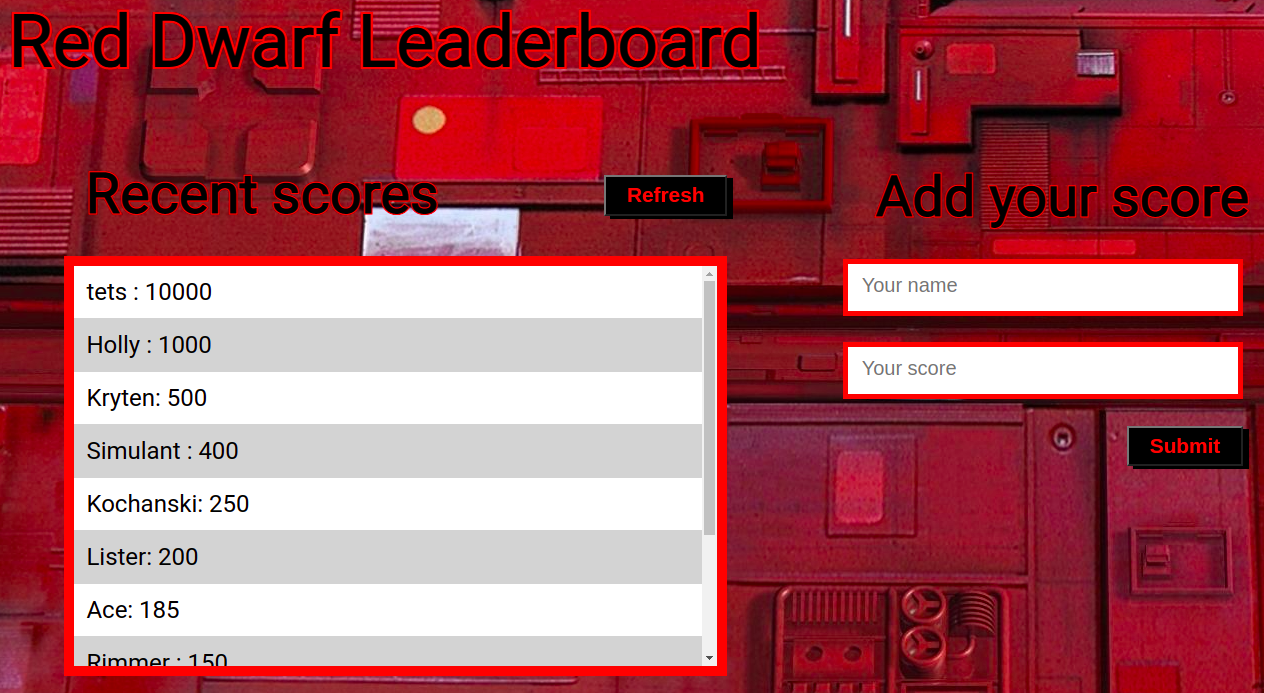
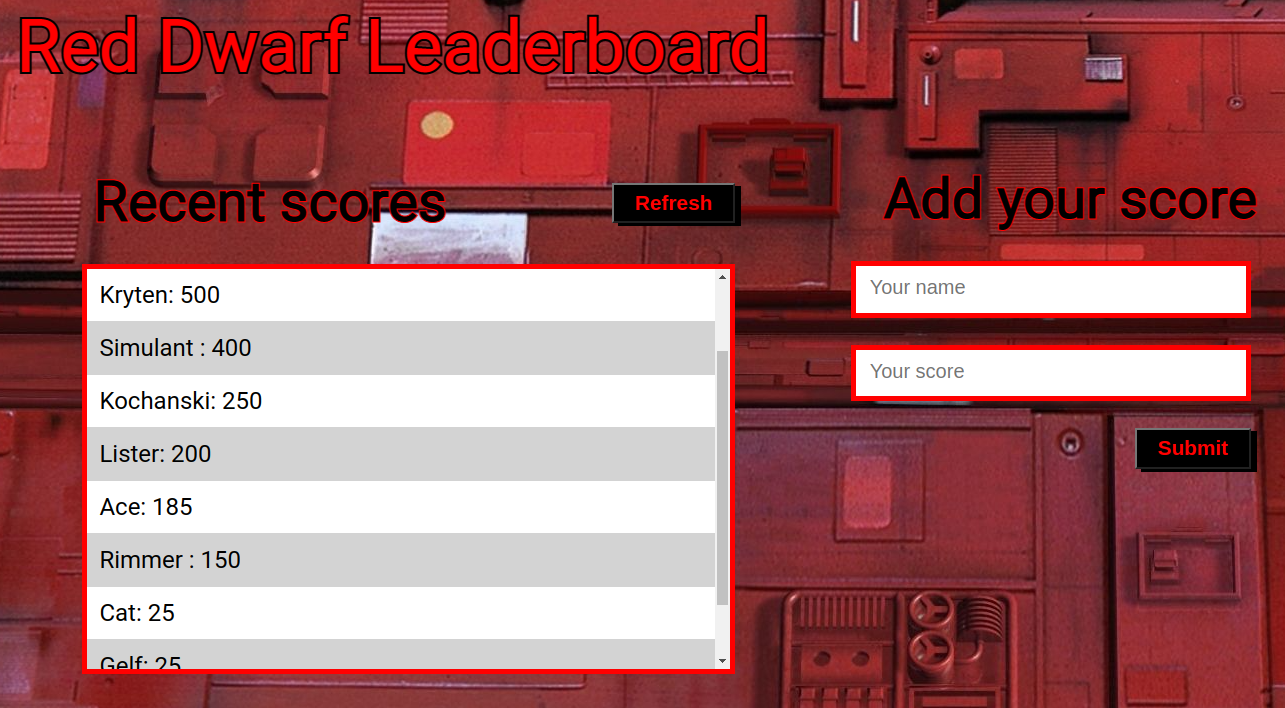
Update h1 font

diff --git a/src/style.css b/src/style.css
@@ -6,8 +6,8 @@ body {
 h1 {
   font-size: 4.5em;
   padding-left: 0.5em;
-  color: black;
-  -webkit-text-stroke: 2px red;
+  color: red;
+  -webkit-text-stroke: 2px black;
 }
 
 h2 {
@@ -98,7 +98,7 @@ button {
 #scores {
   width: 85%;
   height: 400px;
-  border: 10px solid red;
+  border: 5px solid red;
   display: flex;
   flex-direction: column;
   justify-content: flex-start;
